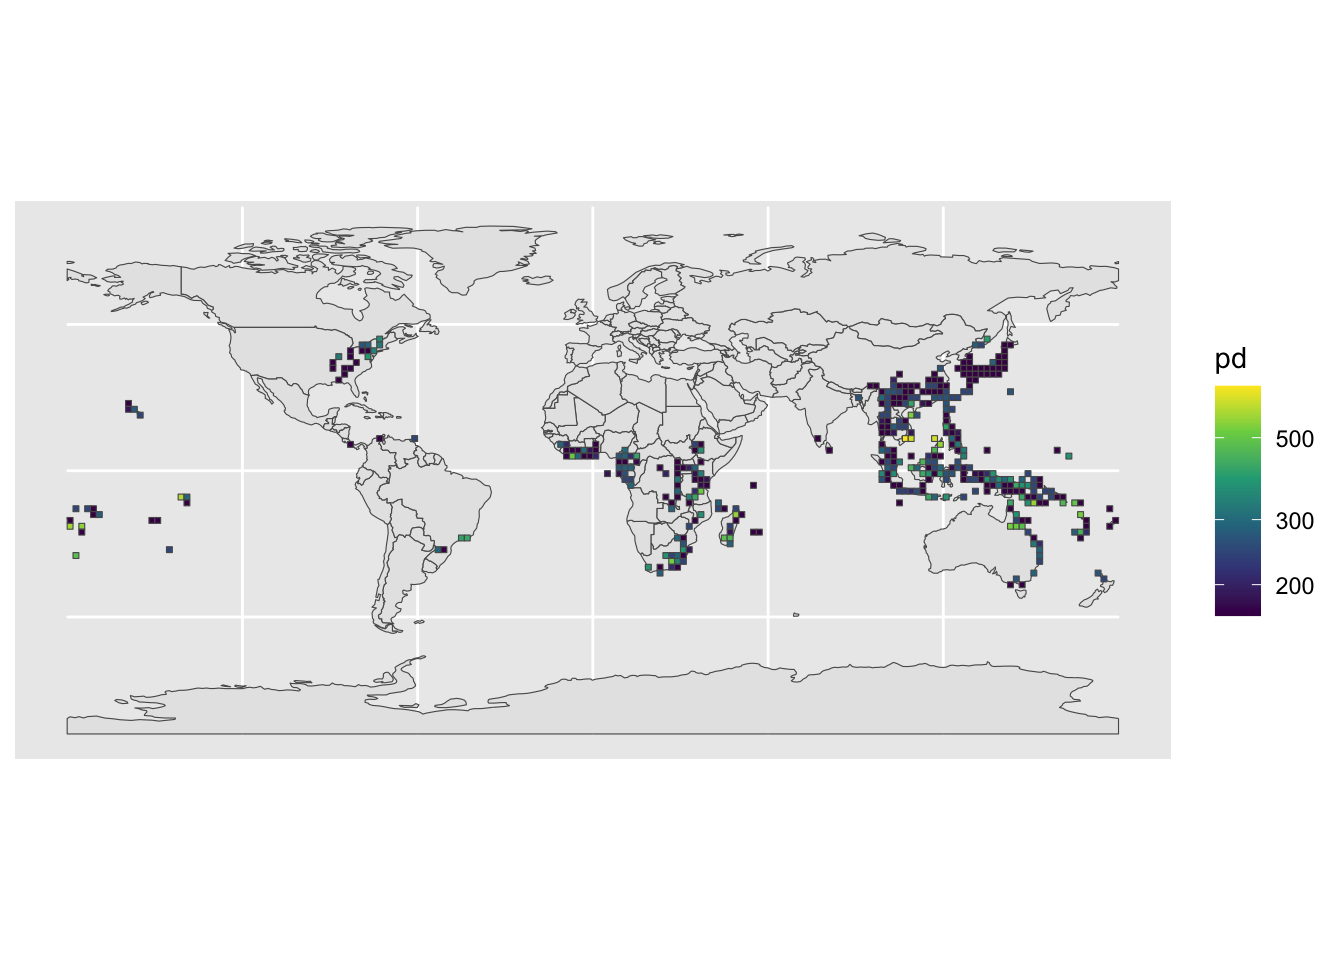
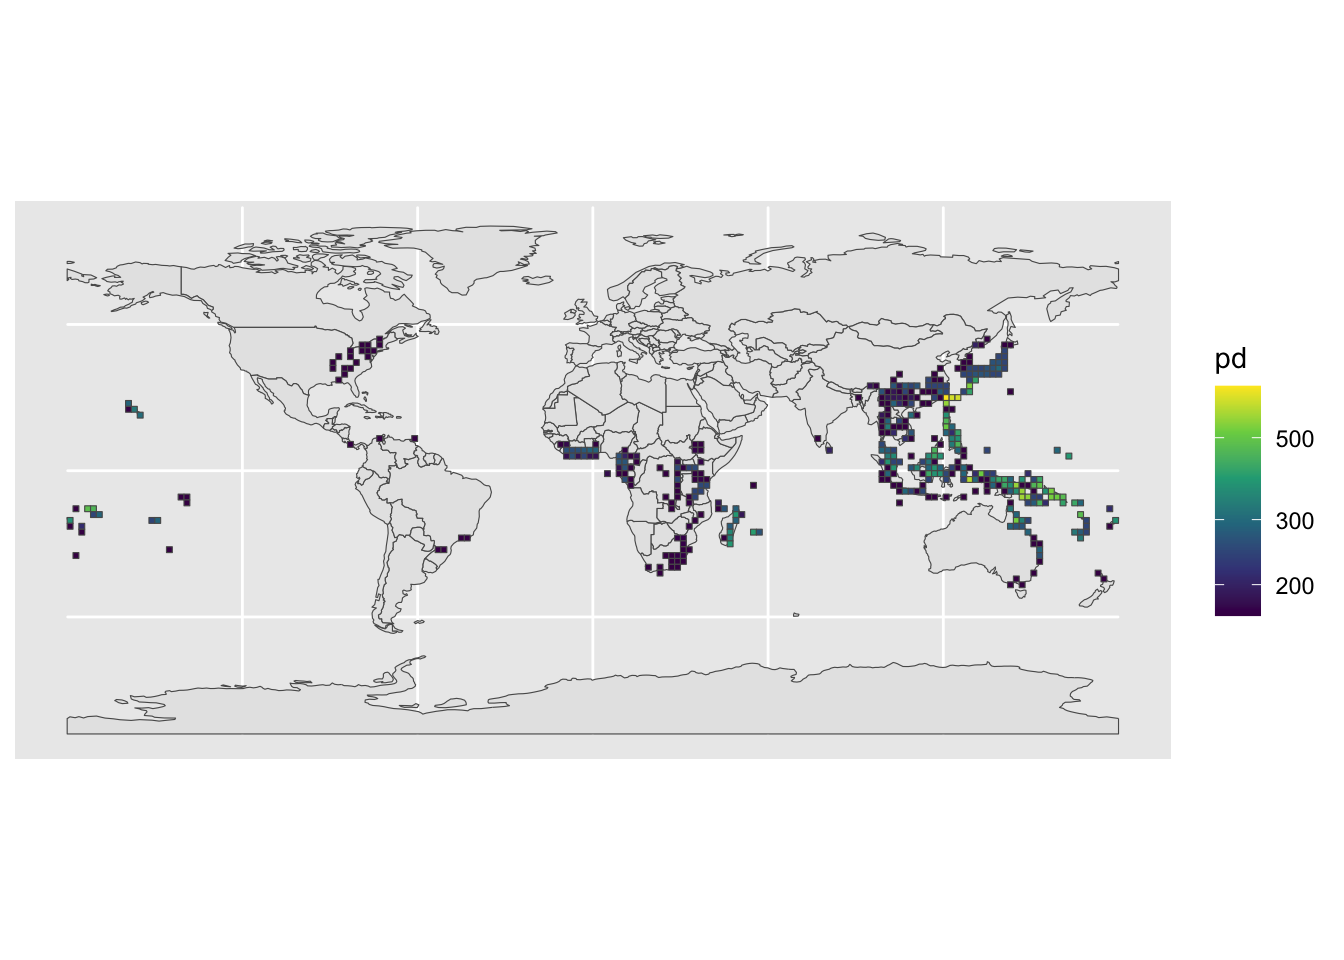
Update tutorial and README

diff --git a/tutorials/occ_phy.md b/tutorials/occ_phy.md
@@ -26,7 +26,13 @@ clicking on “Register”.
 
 To make authentication easier, we will store login credentials in a
 special file called `.Renviron` outside of your project using the
-`usethis` package:
+`usethis` package.
+
+**IMPORTANT NOTE**: Only do this if you are using your own computer!
+**Skip this step if you are running the code in the cloud**, i.e., [in a
+binder](https://mybinder.readthedocs.io/en/latest/about/user-guidelines.html#how-secure-is-mybinder-org).
+In that case, enter your credentials directly into the `occ_download()`
+function.
 
 ``` r
 usethis::edit_r_environ("user")
@@ -107,7 +113,7 @@ crep_records_raw <- occ_download_import(crep_records_path)
 
     Download file size: 1.44 MB
 
-    On disk at ./0002768-230530130749713.zip
+    On disk at /Users/joelnitta/repos/spatial-phy-workshop/tutorials/0003240-230530130749713.zip
 
 Note that the output of `occ_download()` includes a DOI for this
 dataset:
@@ -118,29 +124,29 @@ gbif_download
 
     <<gbif download>>
       Your download is being processed by GBIF:
-      https://www.gbif.org/occurrence/download/0002768-230530130749713
+      https://www.gbif.org/occurrence/download/0003240-230530130749713
       Most downloads finish within 15 min.
       Check status with
-      occ_download_wait('0002768-230530130749713')
+      occ_download_wait('0003240-230530130749713')
       After it finishes, use
-      d <- occ_download_get('0002768-230530130749713') %>%
+      d <- occ_download_get('0003240-230530130749713') %>%
         occ_download_import()
       to retrieve your download.
     Download Info:
       Username: joelnitta
       E-mail: joelnitta@gmail.com
       Format: SIMPLE_CSV
-      Download key: 0002768-230530130749713
-      Created: 2023-06-01T06:48:50.248+00:00
+      Download key: 0003240-230530130749713
+      Created: 2023-06-01T12:03:52.247+00:00
     Citation Info:  
       Please always cite the download DOI when using this data.
       https://www.gbif.org/citation-guidelines
-      DOI: 10.15468/dl.8nbmxb
+      DOI: 10.15468/dl.dcghbs
       Citation:
-      GBIF Occurrence Download https://doi.org/10.15468/dl.8nbmxb Accessed from R via rgbif (https://github.com/ropensci/rgbif) on 2023-06-01
+      GBIF Occurrence Download https://doi.org/10.15468/dl.dcghbs Accessed from R via rgbif (https://github.com/ropensci/rgbif) on 2023-06-01
 
 You should visit the DOI to see what your raw dataset looks like in
-GBIF: <https://doi.org/10.15468/dl.8nbmxb>.
+GBIF: <https://doi.org/10.15468/dl.dcghbs>.
 
 You should always **be sure to cite the DOI if you publish your study**.
 If you filter the data, you may need to cite a “derived” dataset. For
@@ -1270,7 +1276,13 @@ head(pd_crep)
 ``` r
 poly_shp_sf <-
   poly_shp_sf %>%
-  mutate(pd = pd_crep)
+  left_join(
+    tibble(
+      grids = names(pd_crep),
+      pd = pd_crep
+    ),
+    by = "grids"
+  )
 
 ggplot() +
   geom_sf(data = world_map) +

diff --git a/README.md b/README.md
@@ -24,6 +24,8 @@ All materials by [Joel Nitta](https://www.joelnitta.com)
 
 If you don't want to install anything locally or are unable to install some of the required software, you can run the code in your browser.
 
+**NOTE**: If you use this method, [do not save any sensitive information](https://mybinder.readthedocs.io/en/latest/about/user-guidelines.html#how-secure-is-mybinder-org) in the RStudio session (passwords, etc.).
+2.0
 Click the "launch binder" button below:
 
 [![Binder](https://mybinder.org/badge_logo.svg)](https://mybinder.org/v2/gh/joelnitta/spatial-phy-binder/HEAD?urlpath=rstudio)
